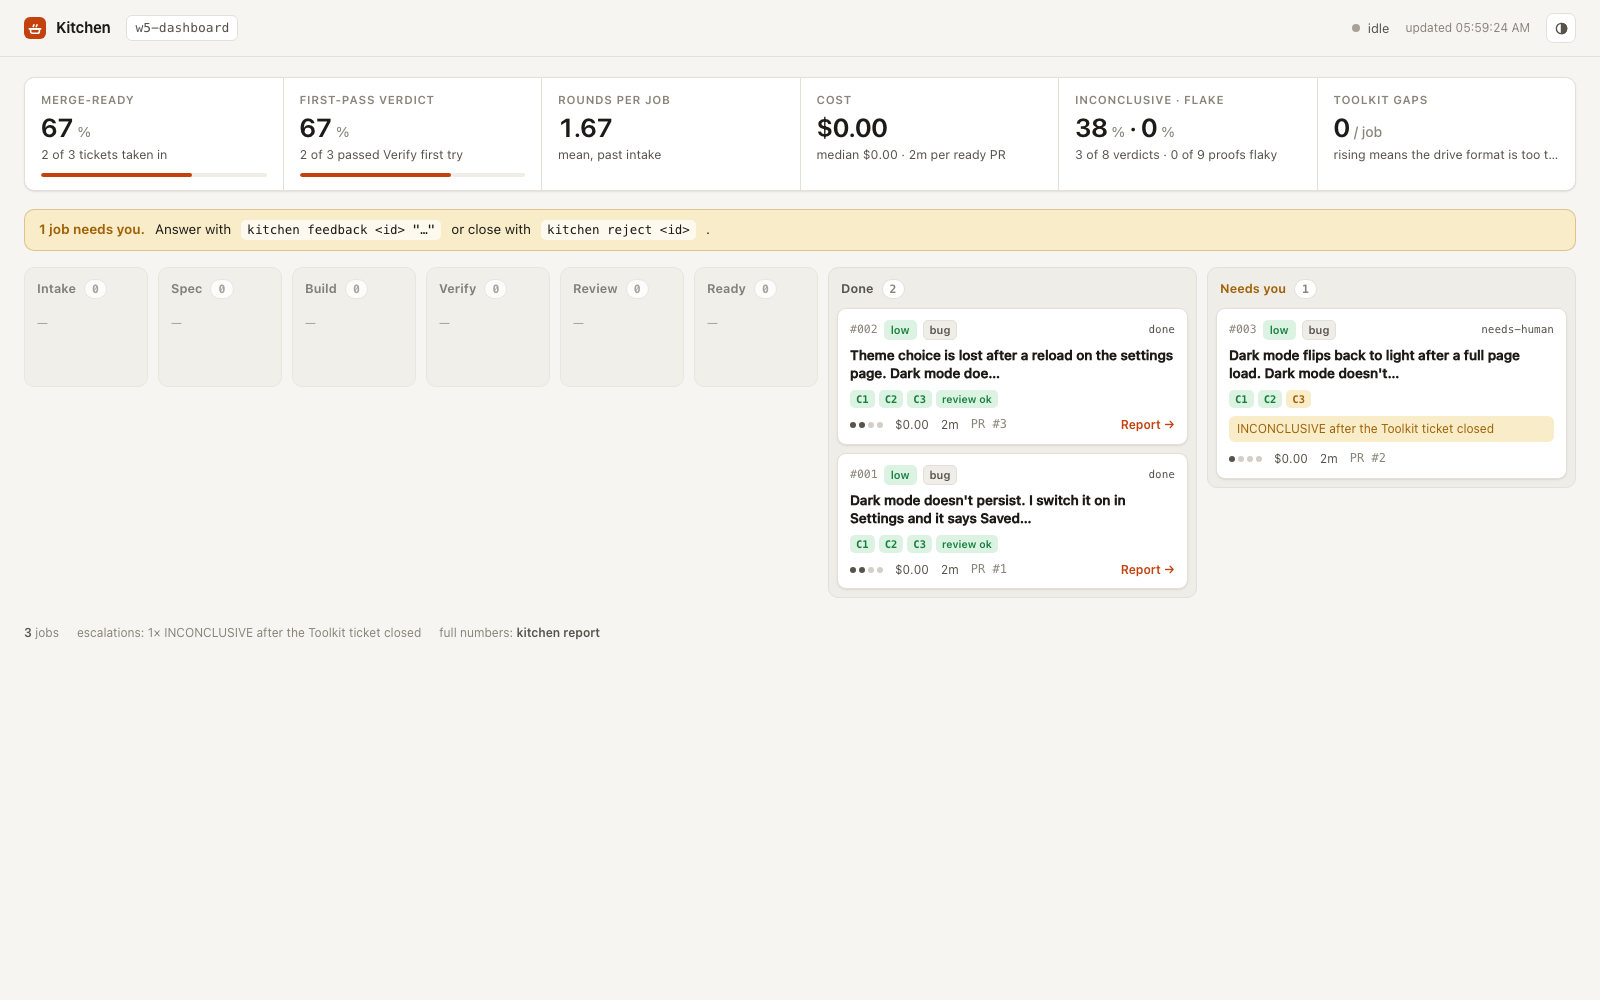
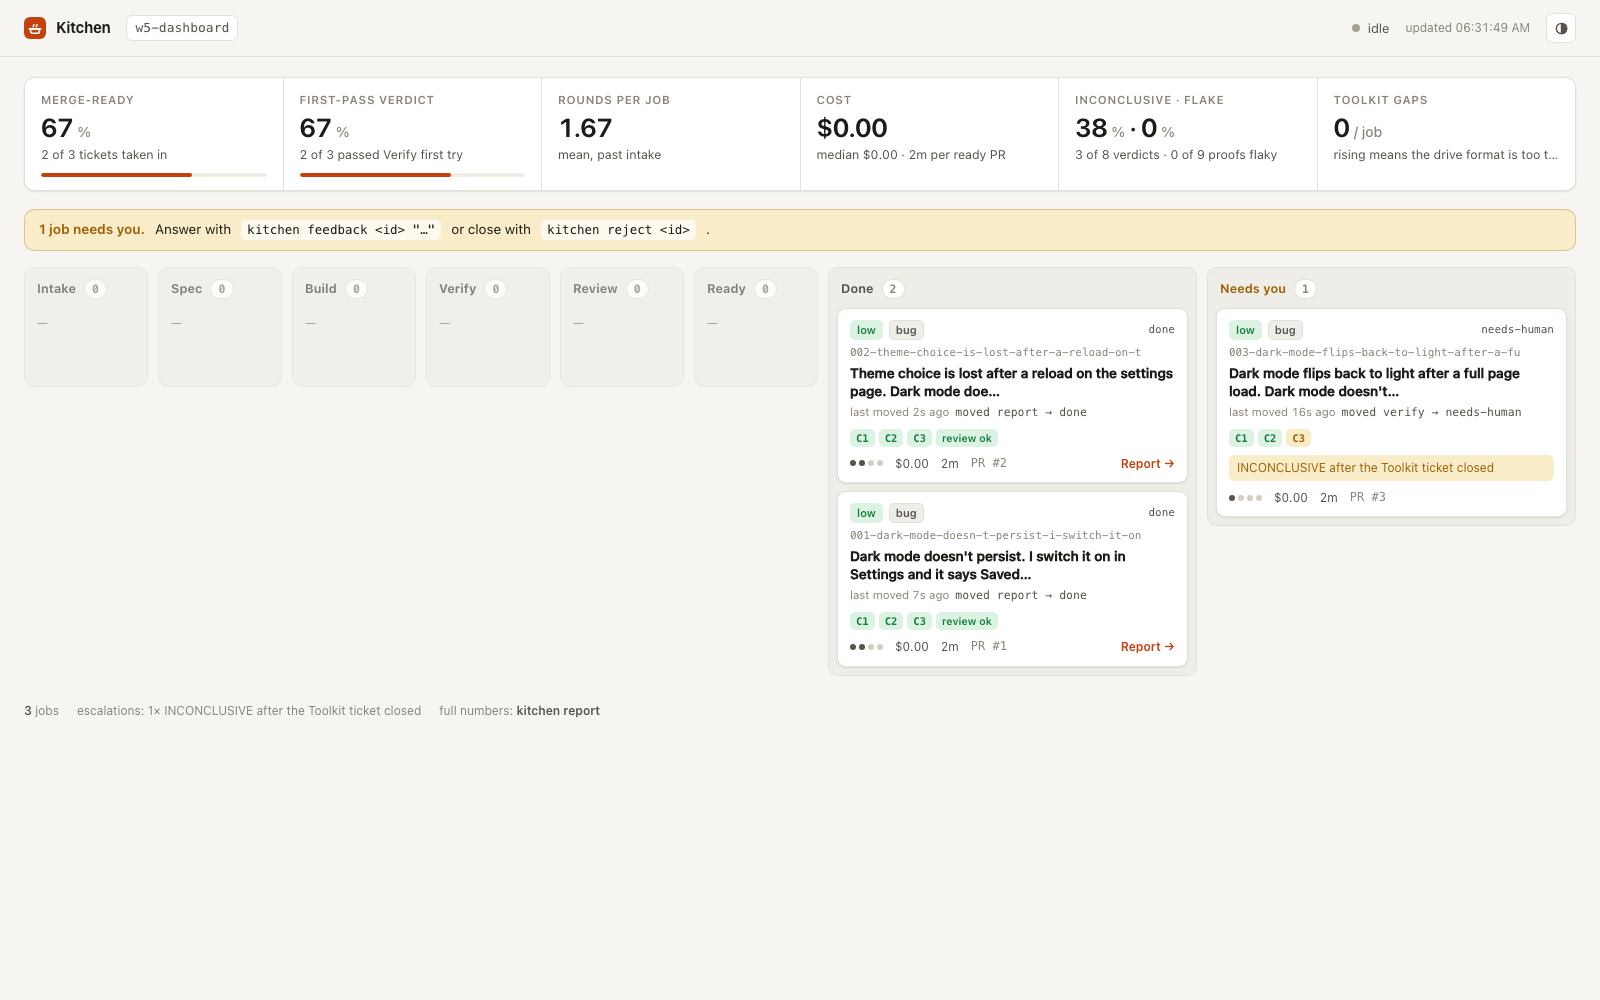
Dashboard card: full id on its own line; wall clock starts at the first agent run; regenerated screens and W3b report

Changed region(s): [[0.5312, 0.31, 0.9688, 0.651], [0.0625, 0.62, 0.25, 0.651], [0.2812, 0.62, 0.375, 0.651]]

diff --git a/dashboard/dashboard.html b/dashboard/dashboard.html
@@ -104,7 +104,8 @@ button.theme svg { width: 15px; height: 15px; }
 .card.active::before { content: ""; position: absolute; left: -1px; top: 10px; bottom: 10px; width: 3px; border-radius: 0 3px 3px 0; background: var(--accent); }
 .card.paused::before { content: ""; position: absolute; left: -1px; top: 10px; bottom: 10px; width: 3px; border-radius: 0 3px 3px 0; background: var(--warn); }
 .card .top { display: flex; align-items: center; gap: 6px; font-size: 11.5px; color: var(--ink-3); }
-.card .id { font-family: var(--mono); min-width: 0; overflow: hidden; text-overflow: ellipsis; white-space: nowrap; }
+.card .id { font-family: var(--mono); font-size: 11px; color: var(--ink-3); margin-top: 6px; overflow-wrap: anywhere; line-height: 1.35; }
+.card .id + .title { margin-top: 3px; }
 .card .now { font-size: 11.5px; color: var(--ink-3); margin: -4px 0 8px; display: flex; gap: 6px; min-width: 0; }
 .card .now .step { font-family: var(--mono); color: var(--ink-2); overflow: hidden; text-overflow: ellipsis; white-space: nowrap; min-width: 0; }
 .card .now .ago { flex: none; font-variant-numeric: tabular-nums; }
@@ -235,7 +236,8 @@ function card(j) {
       ? `<div class="note${j.stage === "rejected" ? " neutral" : ""}">${esc(j.reason.length > 140 ? `${j.reason.slice(0, 140)}…` : j.reason)}</div>`
       : "";
   return `<article class="${cls}">
-    <div class="top"><span class="id" title="${esc(j.id)}">${esc(j.id)}</span>${j.risk ? `<span class="tag ${esc(j.risk)}">${esc(j.risk)}</span>` : ""}${j.kind ? `<span class="tag">${esc(j.kind)}</span>` : ""}<span class="stage">${esc(j.stage)}</span></div>
+    <div class="top">${j.risk ? `<span class="tag ${esc(j.risk)}">${esc(j.risk)}</span>` : ""}${j.kind ? `<span class="tag">${esc(j.kind)}</span>` : ""}<span class="stage">${esc(j.stage)}</span></div>
+    <div class="id">${esc(j.id)}</div>
     <div class="title" title="${esc(j.title)}">${esc(j.title)}</div>
     <div class="now"><span class="ago" title="last moved ${esc(j.movedAt)}">last moved ${esc(dur(ago))} ago</span>${j.step ? `<span class="step" title="${esc(j.step)}">${esc(j.step)}</span>` : ""}</div>
     ${chips || rev ? `<div class="chips">${chips}${rev}</div>` : ""}

diff --git a/src/ledger/measures.ts b/src/ledger/measures.ts
@@ -133,7 +133,9 @@ export function measures(all: LedgerLine[]): Measures {
     let hi = -Infinity;
     for (const l of ls) {
       const t = Date.parse(l.t);
-      if (t < lo) lo = t;
+      // An agent line is written when its run ends: the job was already going `secs` before it.
+      const from = l.event === "agent" ? t - (Number(l.secs) || 0) * 1000 : t;
+      if (from < lo) lo = from;
       if (t > hi) hi = t;
     }
     const agents = ls.filter((l) => l.event === "agent");
